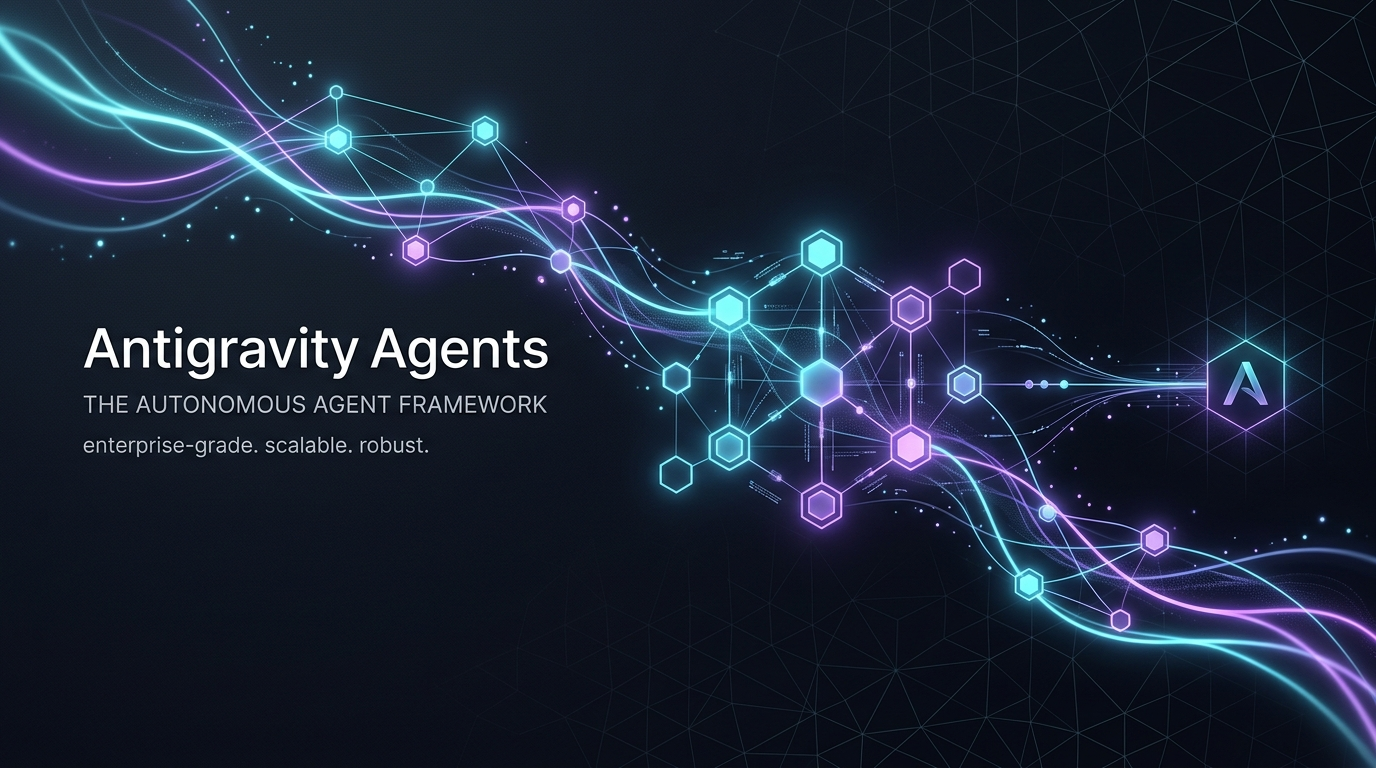
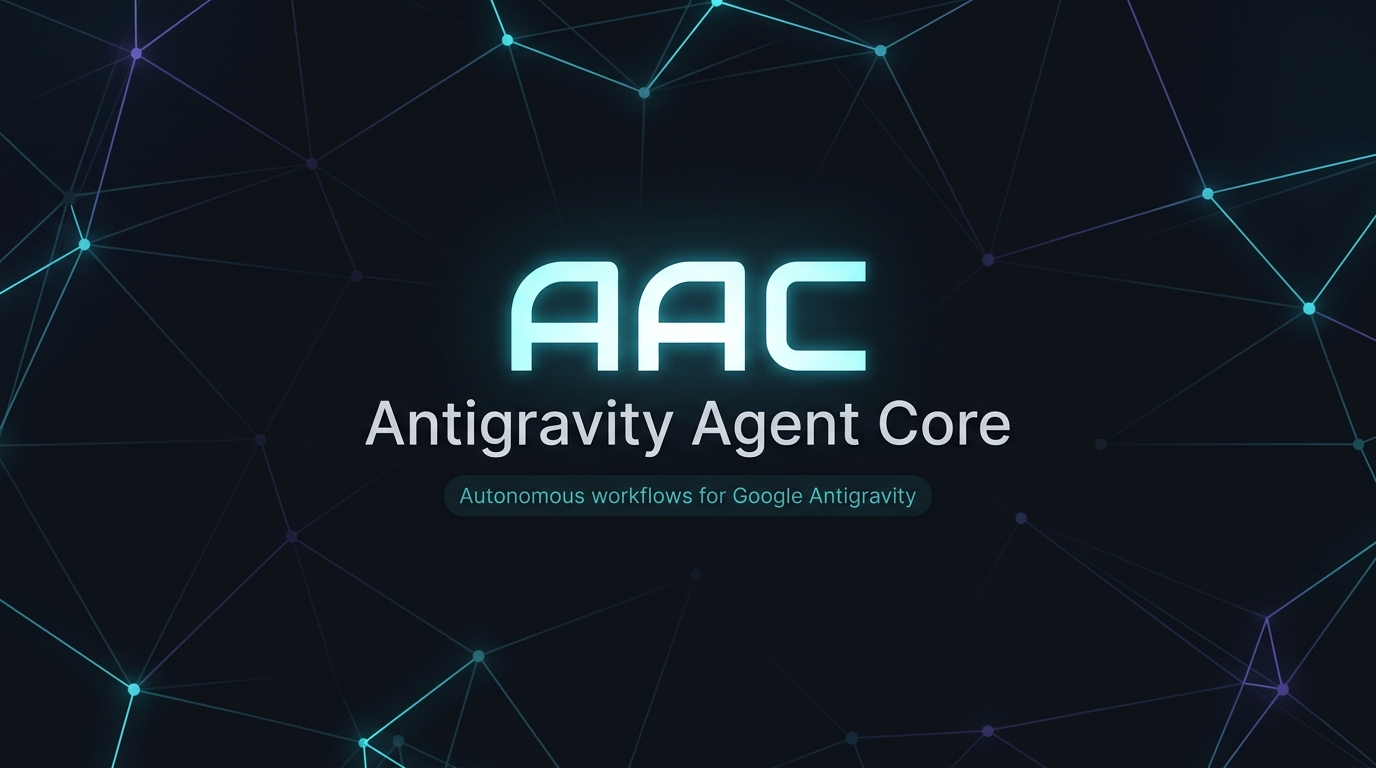
docs: align branding to AAC (Antigravity Agent Core) and eliminate hype

diff --git a/README.md b/README.md
@@ -1,10 +1,10 @@
 <div align="center">
 
-<img src="assets/banner.png" alt="Antigravity Agents Banner" width="100%" />
+<img src="assets/banner.png" alt="AAC (Antigravity Agent Core) Banner" width="100%" />
 
-# Antigravity Agents
+# AAC (Antigravity Agent Core)
 
-**Production-grade, autonomous engineering framework for Google Antigravity.**  
+**Minimalist autonomous engineering framework for Google Antigravity.**  
 *Engineered for Gemini 3.8 Flash (High) • Native Progressive Disclosure • Lifecycle Hooks • Multi-Agent Workspaces*
 
 <p align="center">
@@ -31,7 +31,7 @@
 
 ## ⚡ Overview
 
-**Antigravity Agents v5** is a full-featured autonomous development framework purpose-built for the **Google Antigravity Customization Architecture**. It provides senior-level pair programming, autonomous multi-agent task execution, and progressive context disclosure without token waste or hallucinated tooling.
+**AAC (Antigravity Agent Core)** is a minimalist autonomous engineering framework built for the **Google Antigravity Customization Architecture**. It provides focused pair programming, autonomous multi-agent task execution, and progressive context disclosure without token waste or hallucinated tooling.
 
 <table>
   <tr>
@@ -54,15 +54,16 @@
 
 ## ⚡ Quick Start (Multi-Platform)
 
-Install Antigravity Agents into **any existing project** (Python, Go, Rust, Node, Java, PHP, C++) with a single command:
+Install AAC into **any existing project** (Python, Go, Rust, Node, Java, PHP, C++) with a single command:
 
 ### Option 1: Universal NPX (Any OS with Node.js)
 ```bash
-# Execute directly from GitHub:
+# Directly from GitHub:
 npx github:rafaelghif/antigravity-agents init
 
-# Or via npm registry:
-npx antigravity-agents init
+# Or via npm:
+npx aac init
+# (or: npx antigravity-agents init)
 ```
 
 ### Option 2: Standalone Windows PowerShell (Zero Node.js Prerequisite)
@@ -238,7 +239,7 @@ Skills are loaded into Antigravity via **progressive disclosure**: only names an
 
 ## 🧠 5-Tier Memory Management
 
-To maintain crisp context without attention degradation or token bloat, Antigravity Agents partitions memory across five distinct tiers:
+To maintain crisp context without attention degradation or token bloat, AAC partitions memory across five distinct tiers:
 
 ```text
 ┌─────────────────────────────────────────────────────────────┐
@@ -264,7 +265,7 @@ To maintain crisp context without attention degradation or token bloat, Antigrav
 
 ## 🛡 Lifecycle Hooks & Security
 
-Antigravity Agents integrates with the native Antigravity lifecycle hook engine configured in `.agents/hooks.json`:
+AAC integrates with the native Antigravity lifecycle hook engine configured in `.agents/hooks.json`:
 
 ### 1. Git Guardrails (`PreToolUse`)
 Blocks destructive git commands before `run_command` executes:
@@ -297,7 +298,7 @@ Prevents terminating an agent session if automated tests fail:
 
 ## 🔌 Model Context Protocol (MCP)
 
-Antigravity Agents natively supports workspace-scoped MCP servers with credential sandboxing.
+AAC natively supports workspace-scoped MCP servers with credential sandboxing.
 
 Copy `.agents/mcp_config.example.json` to `.agents/mcp_config.json` (gitignored):
 
